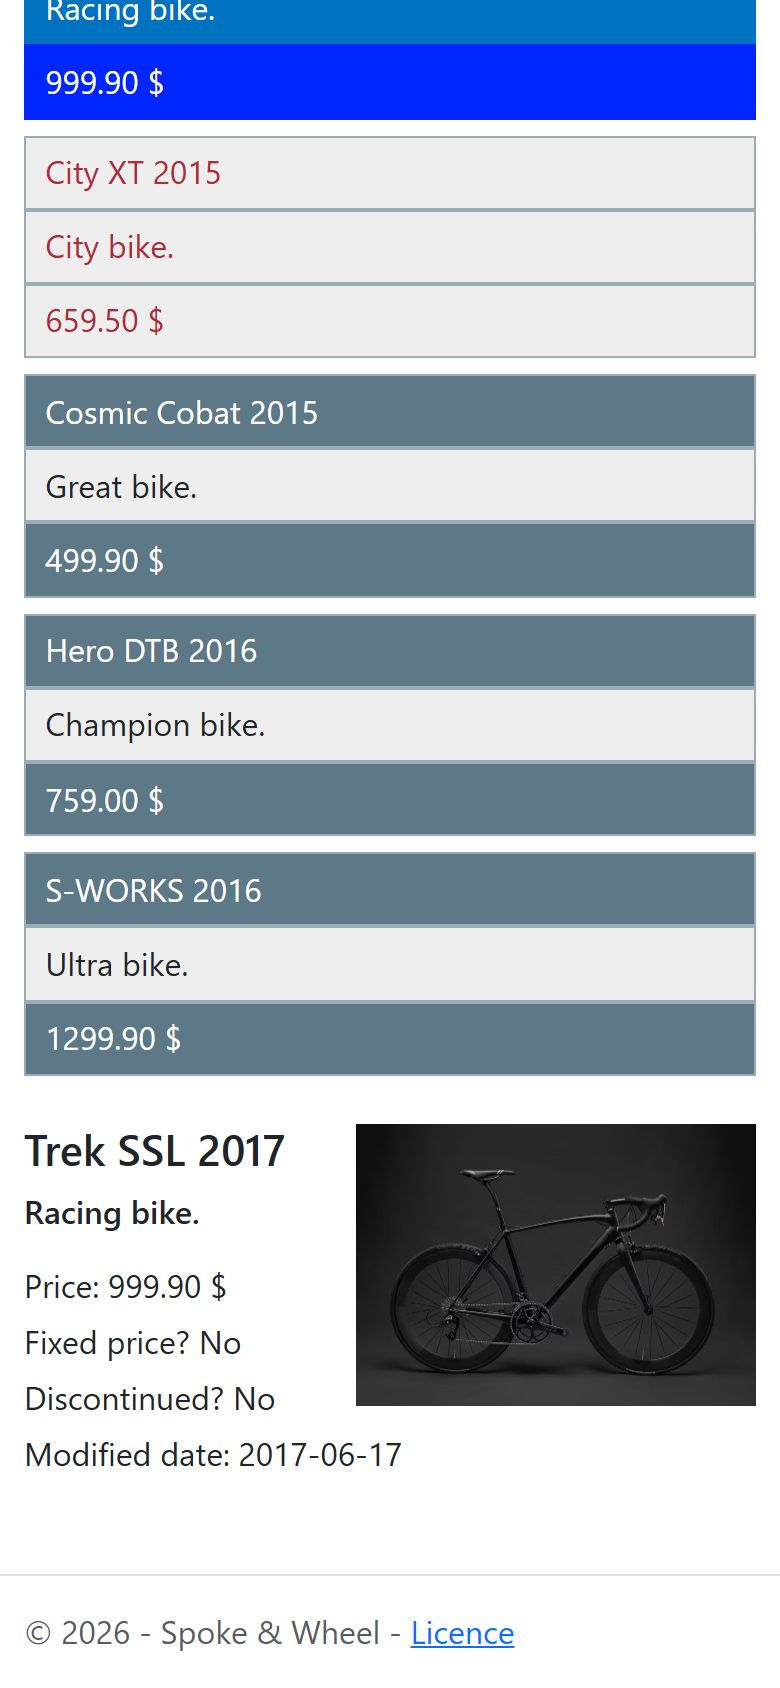
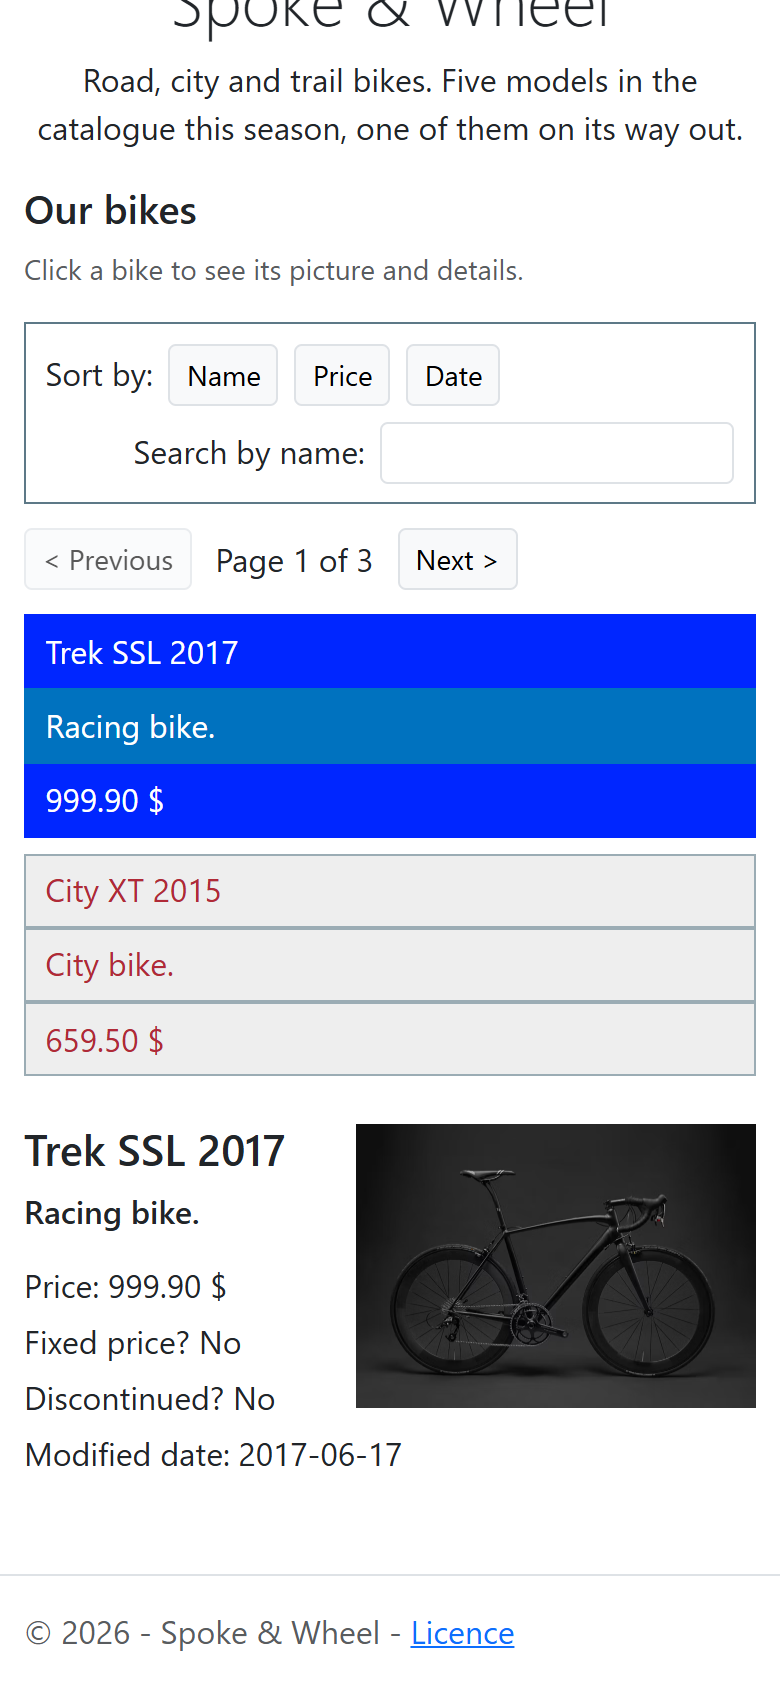
Search, sort and pagination on the list
A search field bound with v-model filters the bikes by name, case-
insensitive. Three buttons sort by name, price or modification date; a
second click on the same button flips the direction. The list shows one
page of perPage bikes, a prop the parent sets to 2, with Previous and
Next buttons disabled at either end and the page number displayed.
Changing the page drops the selection; a new search or order goes back
to page 1. All of it is a chain of computed properties: filtered,
sorted, paginated. Screenshots and README updated.

diff --git a/src/components/ProductList.vue b/src/components/ProductList.vue
@@ -1,26 +1,99 @@
 <script setup>
+import { computed, ref, watch } from 'vue'
+
 // The list receives the catalogue and shows each bike on one row of three
 // cells: name, description, price; a discontinued model is written in red.
 // Clicking a bike tells the parent which one, and the chosen row turns blue.
+// Above the rows: a search field, three sort buttons and a pager. The rows
+// shown are the catalogue filtered, then sorted, then cut to one page.
 const props = defineProps({
   products: { type: Array, required: true },
   selected: { type: Object, default: null },
+  perPage: { type: Number, default: 2 },
 })
 
-defineEmits(['select'])
+const emit = defineEmits(['select'])
 
 const title = 'Our bikes'
 
 const isSelected = (product) => props.selected !== null && props.selected.id === product.id
-</script>
 
+// Search: the field is bound with v-model; the match is case-insensitive.
+const filterName = ref('')
+
+const filteredProducts = computed(() => {
+  const filter = new RegExp(filterName.value, 'i')
+  return props.products.filter((product) => product.name.match(filter))
+})
+
+// Sort: the first click on a button sorts ascending, a second click on the
+// same button flips the direction.
+const sortName = ref('')
+const sortDir = ref(1)
+
+function sort(name) {
+  sortDir.value = sortName.value === name ? -sortDir.value : 1
+  sortName.value = name
+}
+
+const sortedFilteredProducts = computed(() => {
+  const name = sortName.value
+  if (name === '') return filteredProducts.value
+  return [...filteredProducts.value].sort((a, b) => {
+    const [x, y] = [a[name], b[name]]
+    return (x < y ? -1 : x > y ? 1 : 0) * sortDir.value
+  })
+})
+
+// Pagination: the page number starts at 1; the buttons stop at both ends.
+const currentPage = ref(1)
+
+const pageCount = computed(() => Math.max(1, Math.ceil(sortedFilteredProducts.value.length / props.perPage)))
+
+const sortedFilteredPaginatedProducts = computed(() => {
+  const start = (currentPage.value - 1) * props.perPage
+  return sortedFilteredProducts.value.slice(start, start + props.perPage)
+})
+
+function previousPage() {
+  if (currentPage.value > 1) currentPage.value--
+}
+
+function nextPage() {
+  if (currentPage.value < pageCount.value) currentPage.value++
+}
+
+// A new page, a new search or a new order drops the selection, and a search
+// that shrinks the list brings the page back into range.
+watch(currentPage, () => emit('select', null))
+watch([filterName, sortName, sortDir], () => {
+  currentPage.value = 1
+  emit('select', null)
+})
+
+const sortLabel = (name) => (sortName.value === name ? (sortDir.value === 1 ? ' ↑' : ' ↓') : '')
+</script>
 <template>
   <section>
     <h2 class="h5">{{ title }}</h2>
     <p class="text-muted small">Click a bike to see its picture and details.</p>
+    <form class="product-tools" @submit.prevent>
+      <span>Sort by:</span>
+      <button type="button" class="btn btn-light btn-sm border" :aria-pressed="sortName === 'name'" @click="sort('name')">Name{{ sortLabel('name') }}</button>
+      <button type="button" class="btn btn-light btn-sm border" :aria-pressed="sortName === 'price'" @click="sort('price')">Price{{ sortLabel('price') }}</button>
+      <button type="button" class="btn btn-light btn-sm border" :aria-pressed="sortName === 'modifiedDate'" @click="sort('modifiedDate')">Date{{ sortLabel('modifiedDate') }}</button>
+      <label for="filterName" class="ms-auto">Search by name:</label>
+      <input id="filterName" v-model="filterName" type="search" class="form-control form-control-sm w-auto" autocomplete="off">
+    </form>
+    <nav class="product-pager" aria-label="Pages of bikes">
+      <button type="button" class="btn btn-light btn-sm border" :disabled="currentPage === 1" @click="previousPage">&lt; Previous</button>
+      <span aria-live="polite">Page {{ currentPage }} of {{ pageCount }}</span>
+      <button type="button" class="btn btn-light btn-sm border" :disabled="currentPage === pageCount" @click="nextPage">Next &gt;</button>
+    </nav>
+    <p v-if="sortedFilteredPaginatedProducts.length === 0" class="text-muted">No bike matches that name.</p>
     <div class="product-list">
       <button
-        v-for="product in products"
+        v-for="product in sortedFilteredPaginatedProducts"
         :key="product.id"
         type="button"
         class="product-row"
@@ -37,6 +110,24 @@ const isSelected = (product) => props.selected !== null && props.selected.id ===
 </template>
 
 <style scoped>
+/* The tool bar and the pager sit above the rows, as in the reference. */
+.product-tools {
+  display: flex;
+  flex-wrap: wrap;
+  align-items: center;
+  gap: 0.5rem;
+  padding: 0.6rem;
+  margin-bottom: 0.75rem;
+  border: 1px solid #5d7987;
+}
+
+.product-pager {
+  display: flex;
+  align-items: center;
+  gap: 0.75rem;
+  margin-bottom: 0.75rem;
+}
+
 /* Three cells per row: dark, light, dark. The selected row turns blue, the
    discontinued one is written in red on light cells; both come from a class
    on the row. Every pair of colours reaches the 4.5:1 contrast of WCAG AA. */

diff --git a/src/App.vue b/src/App.vue
@@ -4,8 +4,9 @@ import ProductList from './components/ProductList.vue'
 import ProductDetail from './components/ProductDetail.vue'
 import logo from './assets/logo.svg'
 
-// The catalogue lives here and is handed to the list as a prop; the bike
-// clicked in the list is shown in the detail panel under it.
+// The catalogue lives here and is handed to the list as a prop, with the
+// page size; the bike clicked in the list is shown in the detail panel
+// under it.
 const products = [
   { id: 1, name: 'Trek SSL 2017', price: 999.9, description: 'Racing bike.', discontinued: false, fixedPrice: false, modifiedDate: '2017-06-17', imageUrl: 'https://images.unsplash.com/photo-1532298229144-0ec0c57515c7?auto=format&w=800&q=80' },
   { id: 2, name: 'City XT 2015', price: 659.5, description: 'City bike.', discontinued: true, fixedPrice: false, modifiedDate: '2015-03-01', imageUrl: 'https://images.unsplash.com/photo-1606310241970-4858d5d08f6b?auto=format&w=800&q=80' },
@@ -37,7 +38,7 @@ const selected = ref(null)
       </div>
       <div class="row justify-content-center mt-2">
         <div class="col-12 col-lg-10">
-          <ProductList :products="products" :selected="selected" @select="selected = $event" />
+          <ProductList :products="products" :selected="selected" :per-page="2" @select="selected = $event" />
           <ProductDetail v-if="selected" :product="selected" class="mt-4" />
         </div>
       </div>

diff --git a/README.md b/README.md
@@ -10,17 +10,19 @@
 
 A small bike shop's catalogue: road, city and trail bikes in an array,
 rendered by one Vue component with a description, a price, and a red line
-for the model that is discontinued. Click a bike and a second component shows
-its picture and every detail under the list.
+for the model that is discontinued. Search by name, sort by name, price or date
+in either direction, page through two at a time; click a bike and a second
+component shows its picture and every detail under the list.
 
 Vue 3 with `<script setup>`, built by Vite, styled with Bootstrap. Two
-components, three props, one event, and a single `ref` for the bike picked.
+components, four props, one event, a handful of `ref`s and the computed
+chain filtered, sorted, paginated.
 
 ## Screenshots
 
-![A white page with a drawn bicycle logo and the title Spoke & Wheel, then Our bikes: five rows of three cells, a slate cell with the name, a light grey cell with the description and a slate cell with the price: Trek SSL 2017 Racing bike 999.90 $, City XT 2015 City bike 659.50 $ in red on light cells, Cosmic Cobat 2015 Great bike 499.90 $, Hero DTB 2016 Champion bike 759.00 $ and S-WORKS 2016 Ultra bike 1299.90 $](preview.png)
+![A white page with a drawn bicycle logo and the title Spoke & Wheel, then Our bikes: a tool bar with Sort by Name, Price, Date and a Search by name field, a pager reading Previous, Page 1 of 3, Next with Previous greyed out, then two rows of three cells, a slate cell with the name, a light grey cell with the description and a slate cell with the price: Trek SSL 2017 Racing bike 999.90 $ and City XT 2015 City bike 659.50 $ in red on light cells](preview.png)
 
-![The same page after a click on Cosmic Cobat 2015: its three cells turn blue and, under the list, the name, the description Great bike., then Price: 499.90 $, Fixed price? No, Discontinued? No and Modified date: 2015-05-17, with the bike's picture floated on the right](preview-detail.png)
+![The same page sorted by price, the Price button showing an up arrow, page 1 of 3 listing Cosmic Cobat 2015 499.90 $ and City XT 2015 659.50 $; Cosmic Cobat is clicked, its three cells are blue and, under the list, the name, the description Great bike., then Price: 499.90 $, Fixed price? No, Discontinued? No and Modified date: 2015-05-17, with the bike's picture floated on the right](preview-detail.png)
 
 ![The same page on a phone, filling the width, with Trek SSL 2017 selected and its detail card stacked under the list](preview-mobile.png)
 
@@ -33,6 +35,18 @@ changes it.
 
 **One `v-for`, one `:key`.** The list renders a button per product, keyed on
 the product's `id` so Vue can track each row if the array ever changes.
+
+**Search, sort and paging are a chain of computed properties.** The search
+field is bound with `v-model` to `filterName`; `filteredProducts` keeps the
+names that match it, case-insensitive. `sortedFilteredProducts` copies that
+result and sorts it on the property named by `sortName`; a second click on
+the same button flips `sortDir`. `sortedFilteredPaginatedProducts` slices
+one page of `perPage` bikes, a prop the parent sets to 2. Nothing is
+recomputed unless one of its inputs changes.
+
+**Changing the page drops the selection.** A `watch` on the page number
+emits `select` with `null`; a new search or a new order also brings the
+page back to 1, so the pager never points past the end of a shorter list.
 
 **The click goes up, the selection comes down.** A row emits `select` with
 its product; `App.vue` keeps the chosen one in a `ref` and passes it back to
@@ -78,8 +92,11 @@ on Unsplash, linked by URL.
 
 Le catalogue d'une petite boutique de vélos, route, ville et sentier, dans
 un tableau rendu par un composant Vue, avec une description, un prix et
-une ligne rouge pour le modèle discontinué. Un clic sur un vélo affiche sa photo
-et tous ses détails dans un second composant, sous la liste. Le tableau et
+une ligne rouge pour le modèle discontinué. On cherche par nom, on trie par
+nom, prix ou date dans les deux sens, on tourne les pages deux vélos à la
+fois, le tout par une chaîne de propriétés calculées. Un clic sur un vélo
+affiche sa photo et tous ses détails dans un second composant, sous la
+liste; changer de page efface la sélection. Le tableau et
 le vélo choisi vivent dans `App.vue` ; la liste les reçoit par props, ne les
 modifie jamais, et remonte le clic par un événement `select`. Les photos
 sont des images publiques d'Unsplash, liées par adresse, rien n'est stocké
